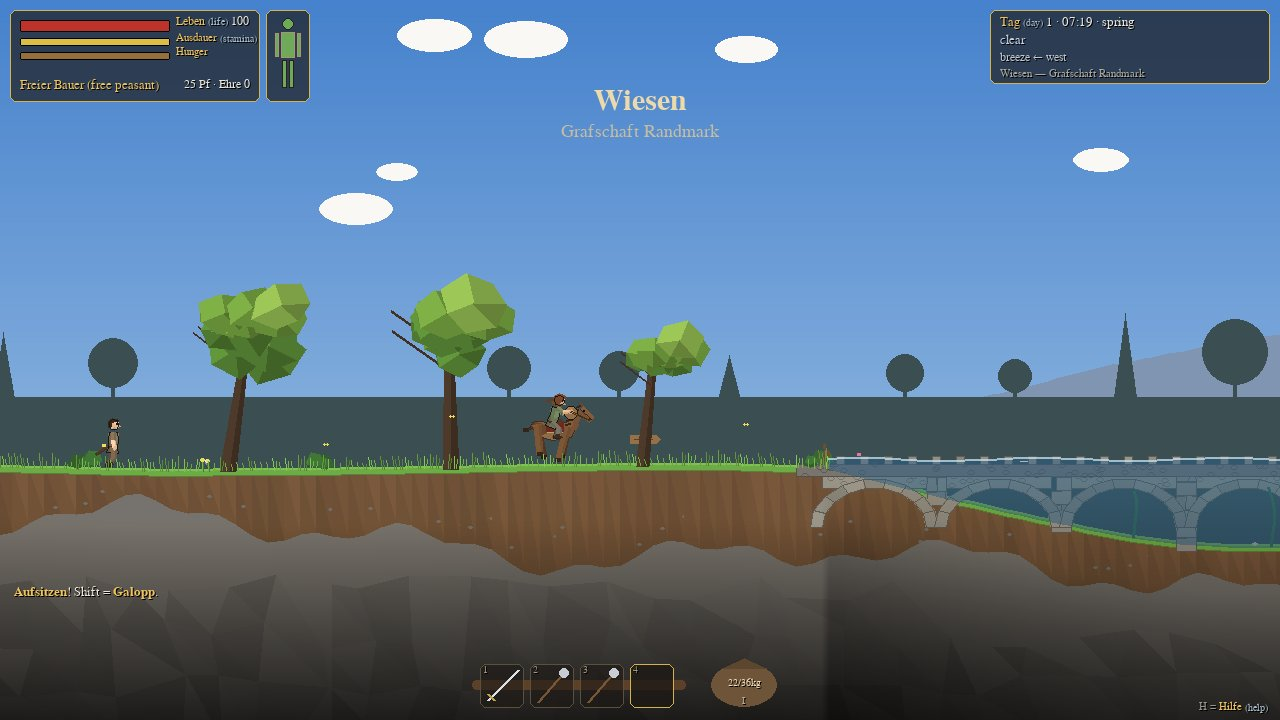
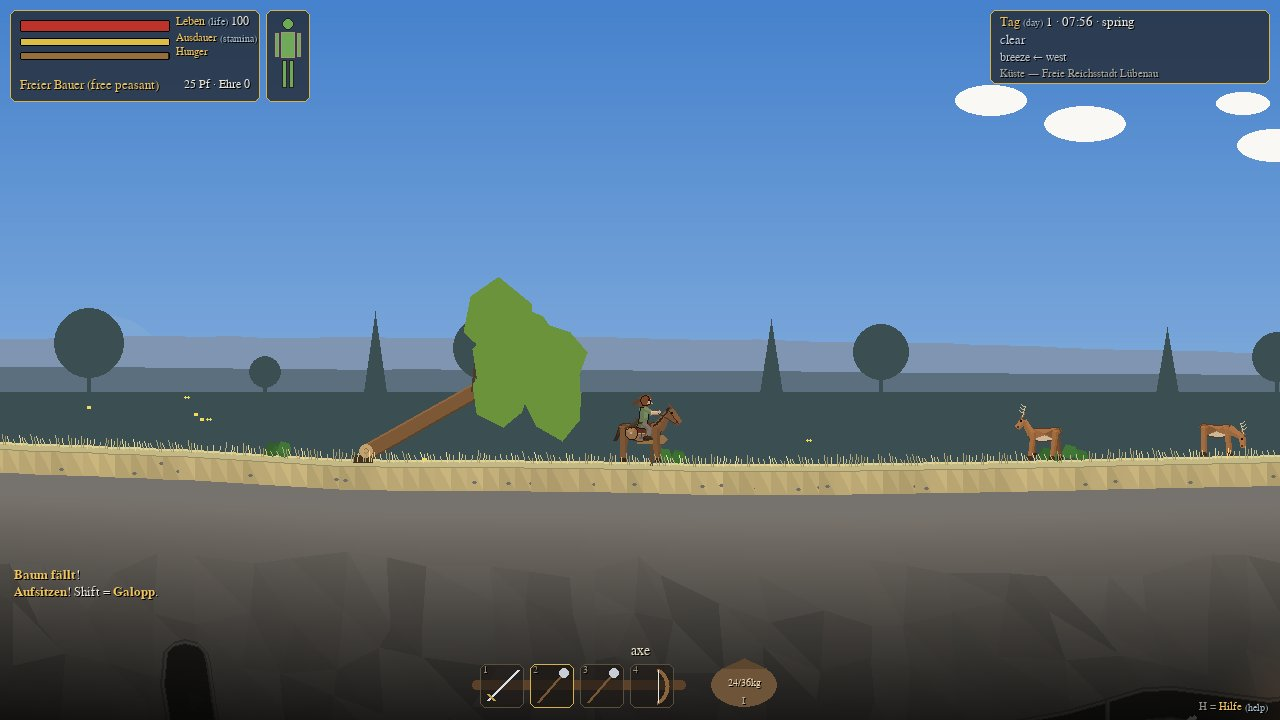
Big oaks take longer to fell; the shield hangs from the saddle when riding
Tree hit points now grow with the trunk's cross-section and the hardness of the
wood: about 2 s for a birch, 4 s for a pine, 10 s for an oak, up to 18 s for an
old oak. Mounted riders hang the shield on the saddle and keep both hands on the
reins until they raise it to block.

Claude-Session: https://claude.ai/code/session_011Uq9NBjsBwGjV8XZYmfuQ9

diff --git a/warlord/poly/flora.py b/warlord/poly/flora.py
@@ -9,7 +9,9 @@ import random
 
 import pygame
 
-TREE_HP = {"oak": 90, "beech": 80, "pine": 60, "fir": 70, "birch": 45, "dead": 30, "willow": 55, "lime": 85}
+# hit points for a tree of 180 px with a 13 px trunk; they grow with height and with the trunk's cross-section,
+# so a slim birch falls in a few strokes and an old oak takes a good while (hard, dense wood on top)
+TREE_HP = {"oak": 260, "beech": 200, "pine": 110, "fir": 120, "birch": 60, "dead": 40, "willow": 80, "lime": 150}
 LEAF = {
     "oak": [(64, 104, 46), (82, 126, 54), (104, 146, 62)],
     "beech": [(76, 116, 48), (98, 140, 58), (124, 162, 70)],
@@ -41,7 +43,8 @@ class Tree:
         self.h = float(height)
         self.tw = float(trunk)
         self.seed = seed
-        self.hp = self.max_hp = TREE_HP.get(kind, 60) * (height / 180.0)
+        hp = TREE_HP.get(kind, 60) * (height / 180.0) * (trunk / 13.0) ** 2
+        self.hp = self.max_hp = max(30.0 if kind == "dead" else 60.0, hp)
         self.state = "stand"     # stand | stump
         self.regrow = 0.0
         self.burn = 0.0

diff --git a/warlord/gfx/rig.py b/warlord/gfx/rig.py
@@ -458,7 +458,13 @@ def draw_humanoid(surf, h, sx, sy, scale=1.0, tint=None):
     quad(surf, J["kb"], J["fb"], 1.8 * S, 1.4 * S, shade(hose, back))
     _foot(surf, J["kb"], J["fb"], f, shade(boots, back), S)
     if h.shield is not None and not p.shield_up and not tint:
-        _draw_shield(surf, h, J["hb"], f, S, raised=False)
+        if getattr(h, "mount", None) is not None:
+            # riding: the shield hangs from the saddle by its strap, behind the rider's leg
+            _draw_shield(surf, h, (hip[0] - f * 11 * S, hip[1] + 10 * S), f, S * 0.9, raised=False)
+            pygame.draw.line(surf, (70, 46, 28), (hip[0] - f * 6 * S, hip[1] + 1 * S),
+                             (hip[0] - f * 11 * S, hip[1] + 5 * S), 1)
+        else:
+            _draw_shield(surf, h, J["hb"], f, S, raised=False)
     # -------------------------------------------------- torso
     Tt = frame(hip, fwd, down)
     tl = ul / S

diff --git a/README.md b/README.md
@@ -87,7 +87,8 @@ Python 3.10+. Classic `pygame` 2.x also works. F11 toggles fullscreen, F3 shows 
   rigid body and the physics engine decides how the wall or the roof comes down. Fire runs through timber,
   thatch and shingles piece by piece.
 - **The few things you do with your hands:**
-  - **Fell trees.** Chop with an axe; the trunk becomes a rigid body hinged on its stump and topples away from
+  - **Fell trees.** Chop with an axe. Thick trunks of hard wood take longest: a slim birch falls in a couple of
+    strokes, a pine in a few seconds, an old oak in a quarter of a minute. The trunk becomes a rigid body hinged on its stump and topples away from
     you — the crown crashes down, hurts whoever stands there, and scatters wood and saplings. Stumps regrow.
   - **Buck and carry.** Cut a lying trunk where you strike it. Small logs go in the bag; big ones you carry in
     both arms, slowly.
@@ -115,7 +116,8 @@ Python 3.10+. Classic `pygame` 2.x also works. F11 toggles fullscreen, F3 shows 
 - **Animals with skeletons.** Horses, cattle, sheep, pigs, deer, boar, wolves and bears have four two-bone legs
   solved by inverse kinematics and real gaits — a four-beat walk, a diagonal trot, a rotary gallop with
   suspension. Riders sit astride in the saddle, legs down to the stirrups, both hands on the reins when they
-  carry nothing (one hand when armed), leaning into the gallop. Hind legs fold at the hock, the body rocks, the
+  carry nothing (one hand when armed), leaning into the gallop; the shield hangs from the saddle until they
+  raise it. Hind legs fold at the hock, the body rocks, the
   neck nods, herd animals graze, horses wear saddle,
   blanket and bridle.
 - **Ragdolls with joints.** The fallen become chains of rigid bones pinned at the joints with rotation limits;
